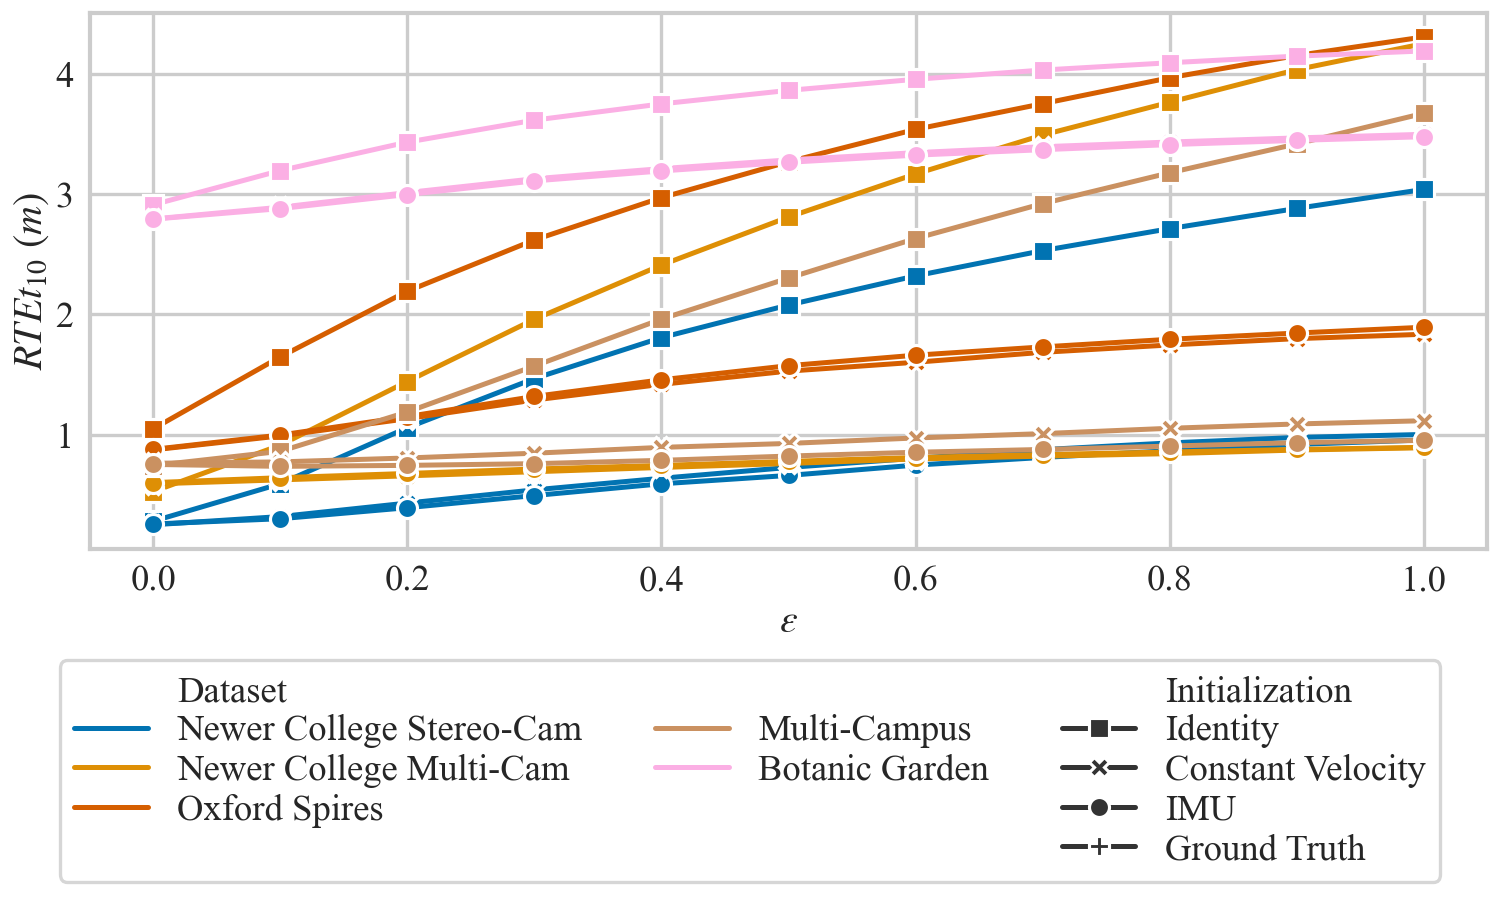
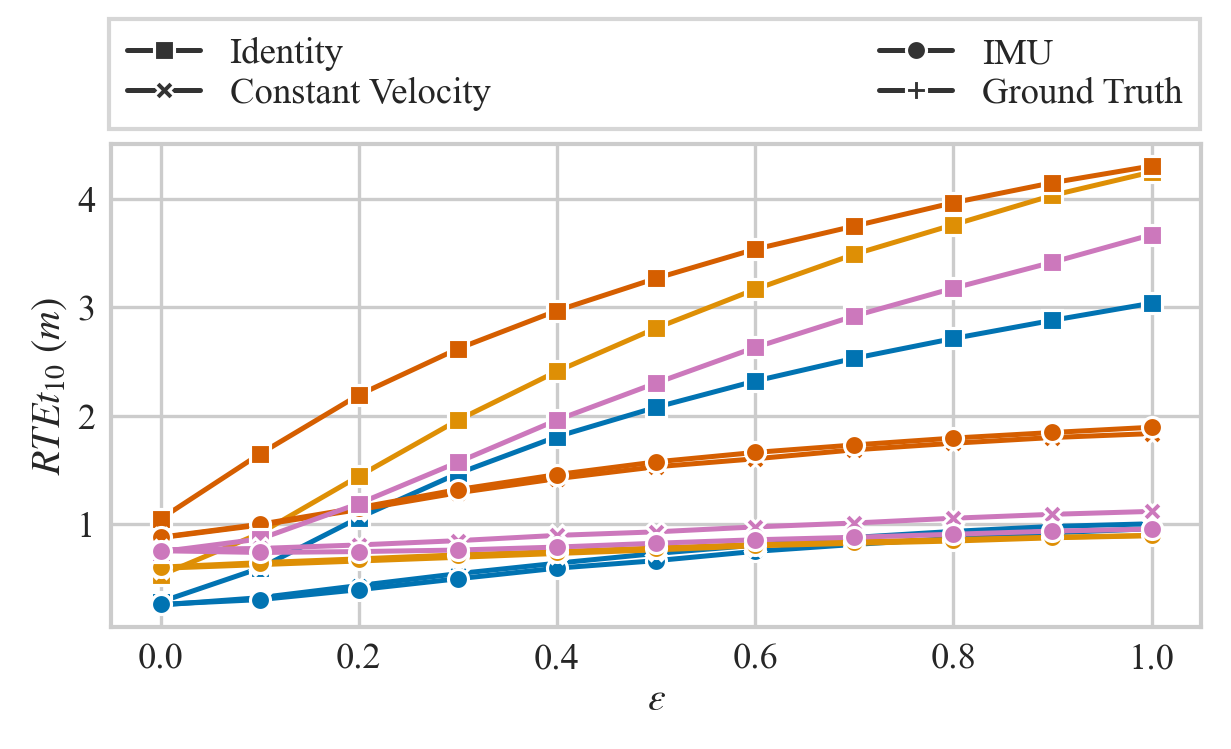
Finalize dewarp, pseudo figures

Changed region(s): [[0.0, 0.0, 1.0, 0.9826]]

diff --git a/experiments/pseudo.py b/experiments/pseudo.py
@@ -10,7 +10,7 @@ from params import ExperimentParams, Feature, Initialization
 from wrappers import parser, plt_show, setup_plot
 from run import run_multithreaded
 from stats import compute_cache_stats
-from env import RESULTS_DIR, SUBSET_TRAJ, LEN
+from env import RESULTS_DIR, SUBSET_TRAJ, LEN, COL_WIDTH
 
 dir = RESULTS_DIR / "25.02.18_pseudo_plane"
 
@@ -49,14 +49,21 @@ def plot(name: str, force: bool):
         "Newer College Multi-Cam",
         "Multi-Campus",
         "Oxford Spires",
-        "Botanic Garden",
+        # "Botanic Garden",
         # "Hilti 2022",
     ]
 
     df = compute_cache_stats(dir, force=force)
     df = df.filter(pl.col("Dataset").is_in(good))
 
-    fig, ax = plt.subplots(1, 1, figsize=(5, 3), layout="constrained", sharey=True)
+    fig, ax = plt.subplots(
+        1,
+        1,
+        figsize=(COL_WIDTH + 0.5, 2.0),
+        layout="constrained",
+        sharey=False,
+        sharex=True,
+    )
     sns.lineplot(
         df,
         ax=ax,
@@ -69,29 +76,29 @@ def plot(name: str, force: bool):
         dashes=False,
         palette=palette,
     )
-    # blank line for the legend
-    new_handles = [4, 5, 8, 9]
-    for _ in new_handles:
-        ax.plot(np.NaN, np.NaN, "-", color="none", label=" ")
     # Reorder the legend to put blank one in the right spot
     handles, labels = ax.get_legend_handles_labels()
-    for i in new_handles:
-        handles.insert(i, handles.pop(-1))
-        labels.insert(i, labels.pop(-1))
+    handles = handles[-4:]
+    labels = labels[-4:]
 
     ax.tick_params(axis="x", pad=-1)
     ax.tick_params(axis="y", pad=-1)
     ax.set_xlabel(r"$\epsilon$", labelpad=1)
-    ax.set_ylabel(r"$RTEt_{10}\ (m)$", labelpad=1)
+    ax.set_ylabel(r"$RTEt_{10}\ (m)$", labelpad=2)
     ax.legend().set_visible(False)
 
-    fig.legend(
+    leg = fig.legend(
         handles=handles,
         labels=labels,
-        ncol=3,
-        loc="outside lower center",
+        ncol=2,
+        borderpad=0.2,
         labelspacing=0.15,
-    )
+        loc="outside upper left",
+        columnspacing=10.6,
+        bbox_to_anchor=(0.07, 1.20),
+    ).get_frame()
+    leg.set_boxstyle("square")  # type: ignore
+    leg.set_linewidth(1.0)
     plt_show(name)
 
 

diff --git a/experiments/dewarp.py b/experiments/dewarp.py
@@ -12,7 +12,7 @@ from stats import compute_cache_stats
 from env import ALL_TRAJ, LEN, RESULTS_DIR, COL_WIDTH
 
 
-dir = RESULTS_DIR / "25.02.18_dewarp_with_edges_cv_init"
+dir = RESULTS_DIR / "25.02.18_dewarp_with_edges"
 
 
 def run(num_threads: int):
@@ -77,13 +77,8 @@ def plot(name: str, force: bool):
         dashes=False,
         legend=True,
     )
-    # blank line for the legend
-    # ax.plot(np.NaN, np.NaN, "-", color="none", label=" ")
-
     # Reorder the legend to put blank one in the right spot
     handles, labels = ax.get_legend_handles_labels()
-    # handles.insert(5, handles.pop(-1))
-    # labels.insert(5, labels.pop(-1))
     handles = handles[-3:]
     labels = labels[-3:]
 

diff --git a/src/stats.py b/src/stats.py
@@ -435,6 +435,15 @@ def compute_cache_stats(directory: Path, force: bool = False) -> pl.DataFrame:
             .alias("Planar Type")
         )
 
+        curv_pretty_names = {
+            "Loam": "Classic",
+            "Eigen": "Scanline-Eigen",
+            "Eigen_NN": "NN-Eigen",
+        }
+        df = df.with_columns(
+            pl.col("curvature").replace(curv_pretty_names).alias("Curvature")
+        )
+
         df = df.rename({"features": "Features"})
 
         # ------------------------- Rename other columns ------------------------- #

diff --git a/src/run_init.py b/src/run_init.py
@@ -228,6 +228,7 @@ def run_multithreaded(
             total=len(eps),
             position=0,
             desc="Experiments",
+            smoothing=0.0,
             leave=True,
             dynamic_ncols=True,
         ):
